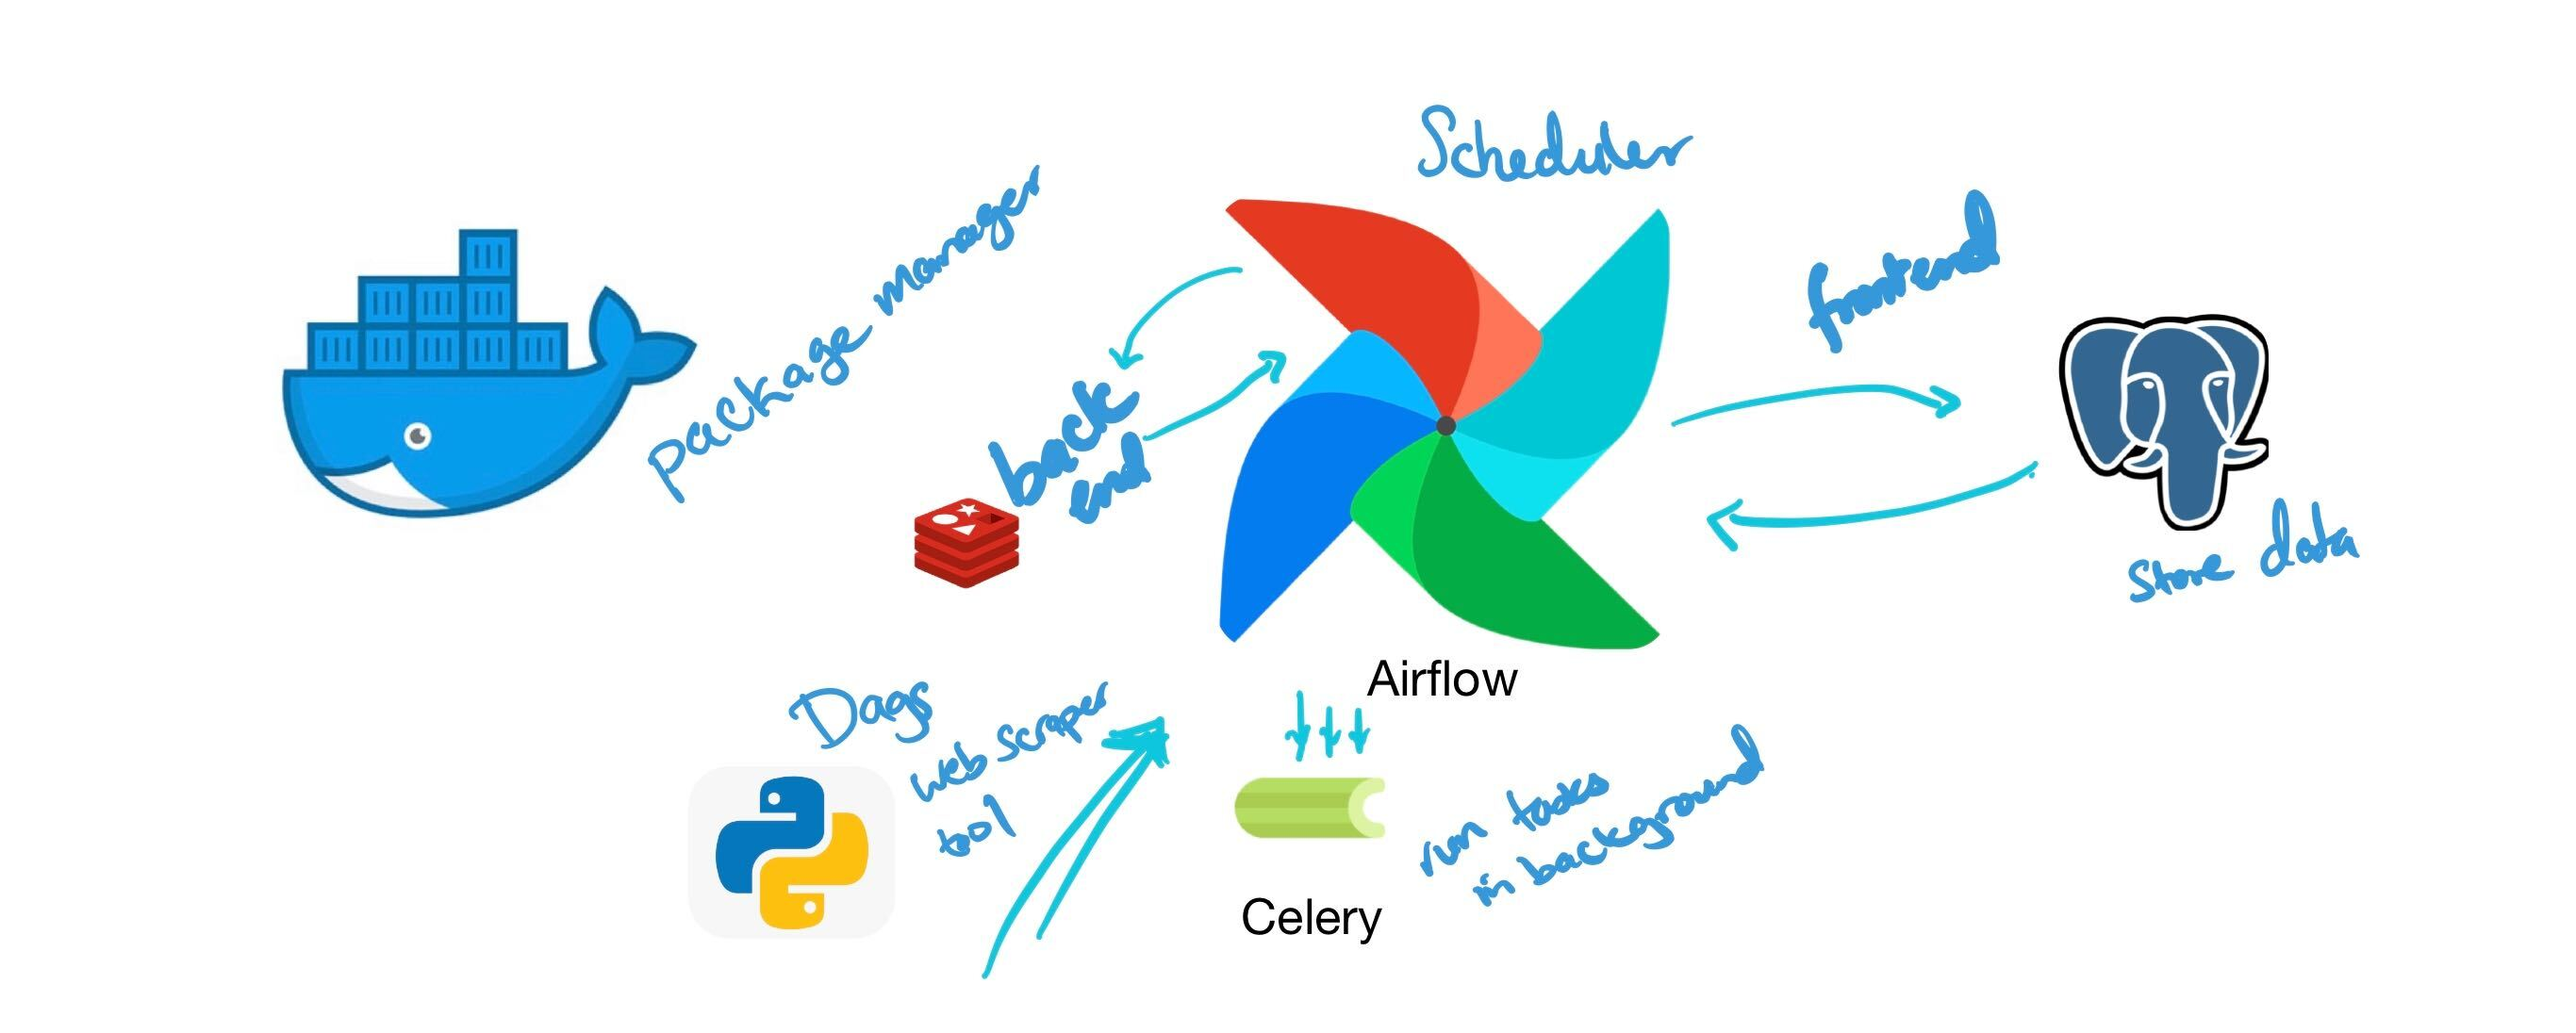
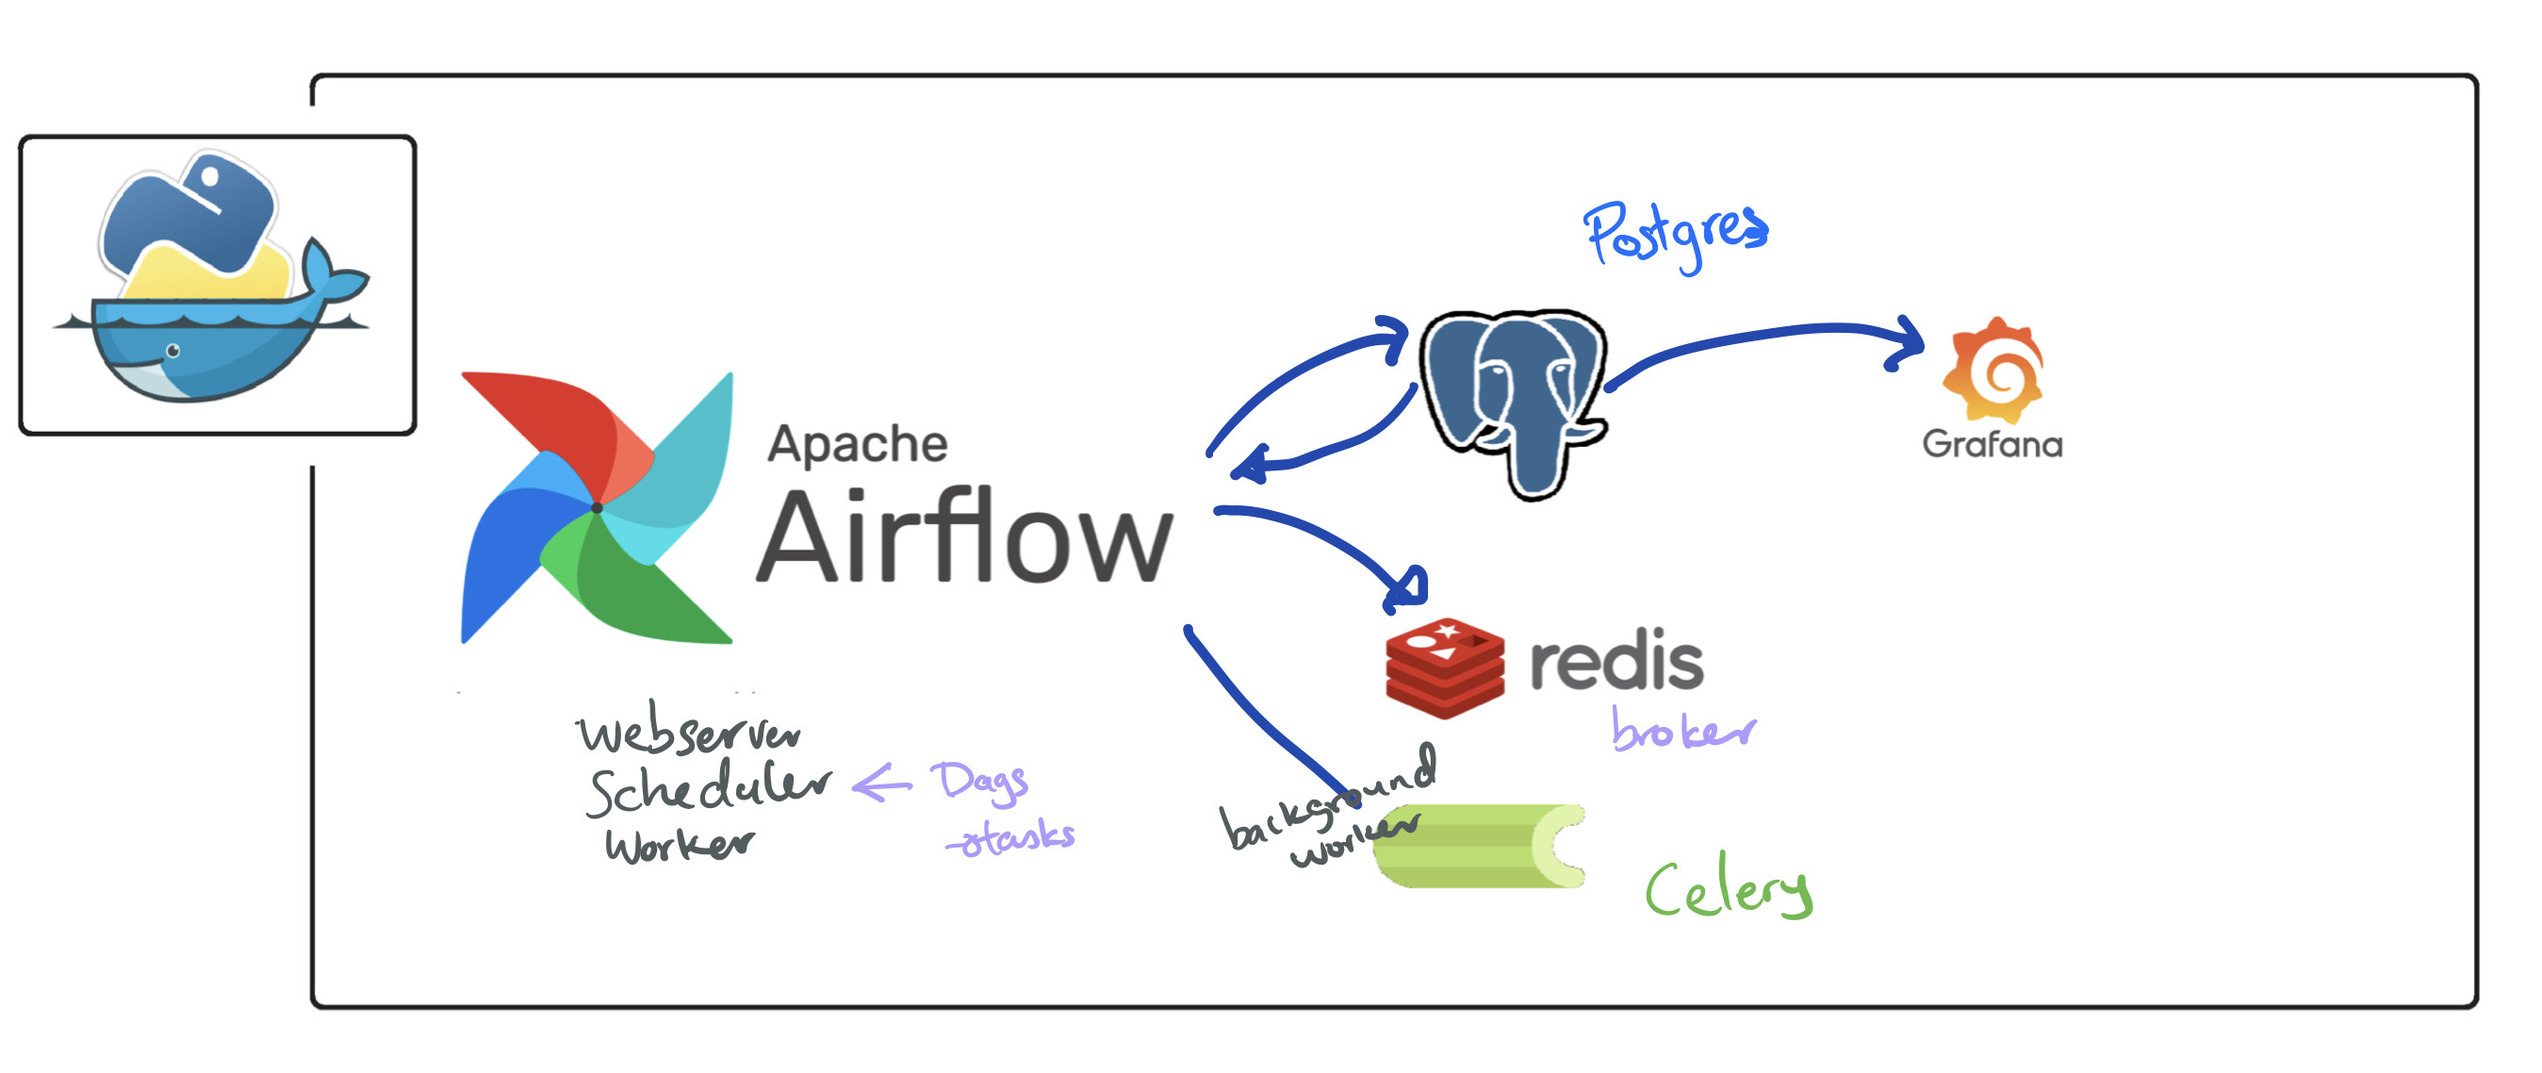
before merging master

diff --git a/README.md b/README.md
@@ -51,10 +51,13 @@ See: [docker-compose up](https://docs.docker.com/compose/reference/up/) options
 ![advance_image](images/airflow_dag.png)
 - ##### Airflow:  `address:` __localhost:8080__ `default_user:` __danpra__ `default_pwd`: __changeme__
 - ##### pgAdmin: `address:` __localhost:5050__ `default_email:` __pgadmin@example.com__ `default_pwd`: __admin__
-- ##### Flower: `address:` __localhost:5555__ 
+- ##### Flower: `address:` __localhost:5555__
+- ##### Ridis Insight: `address:` __localhost:8001__ 
+- ##### Grafana: `address:` __localhost:3000__  
 
 #### Airflow UI
 Head to `localhost:8080` on your browser. Login with credentials used in your environment ADMIN_USER and ADMIN_PASSWORD variables. Example: `danpra` and password `airflowpwd` 
+
 #### Postgres Admin Tool
 Head to `localhost:5050`. Login with credentials used in your environment PGADMIN_DEFAULT_EMAIL and PGADMIN_DEFAULT_PASSWORD variables. Example: `danpra@example.com` and password `postgrespwd`
 
@@ -63,6 +66,13 @@ Head to `localhost:5050`. Login with credentials used in your environment PGADMI
 Adding a connection to `postgres` DB in `pgAdmin`, click `Add New Server`. Type any name and select `Connection`. Name:Boliga > Host name/address: `postgres`: Postgres Username and Password and click `Save`
   
  ![postgres_image](images/pgAdmin_connection.png) 
+
+ #### Grafana
+ Head to `localhost:3000`. Login with user `admin` and and password `grafanapwd`. Change credentials in `containers/grafana/config.monitoring`. Add postgres as data source with the postgres username and password as we did in pgAdmin.
+
+![grafana_image](images/grafana_postgres.png) 
+> Charts coming soon
+
 
 
 ### Stop services with:
@@ -104,9 +114,7 @@ Estate(Services)        # initiate with estate recent home as url
 - [ ] Add an introduction to Airflow  README
 - [ ] Add custom error handling class
 - [ ] Add tests Airflow dags and Scrapers
-- [ ] Add a script to generate .evn and generate proper setting in airflow.cfg and fluent.conf
-- [ ] Create alerting system using Kibana
-- [ ] Create price modeling example
+- [ ] Add Grafana visualization of tasks and estates prices
 
 ![dev](images/dev.png)
 
